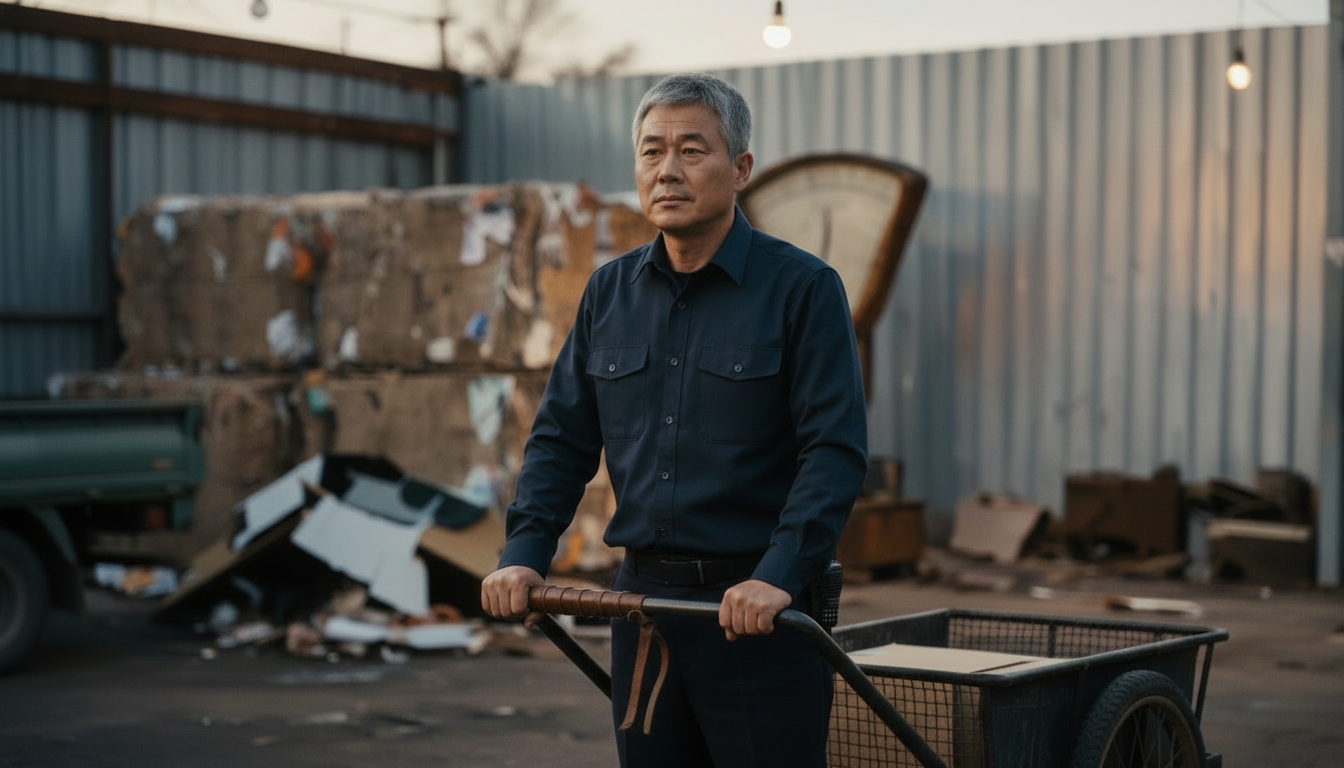
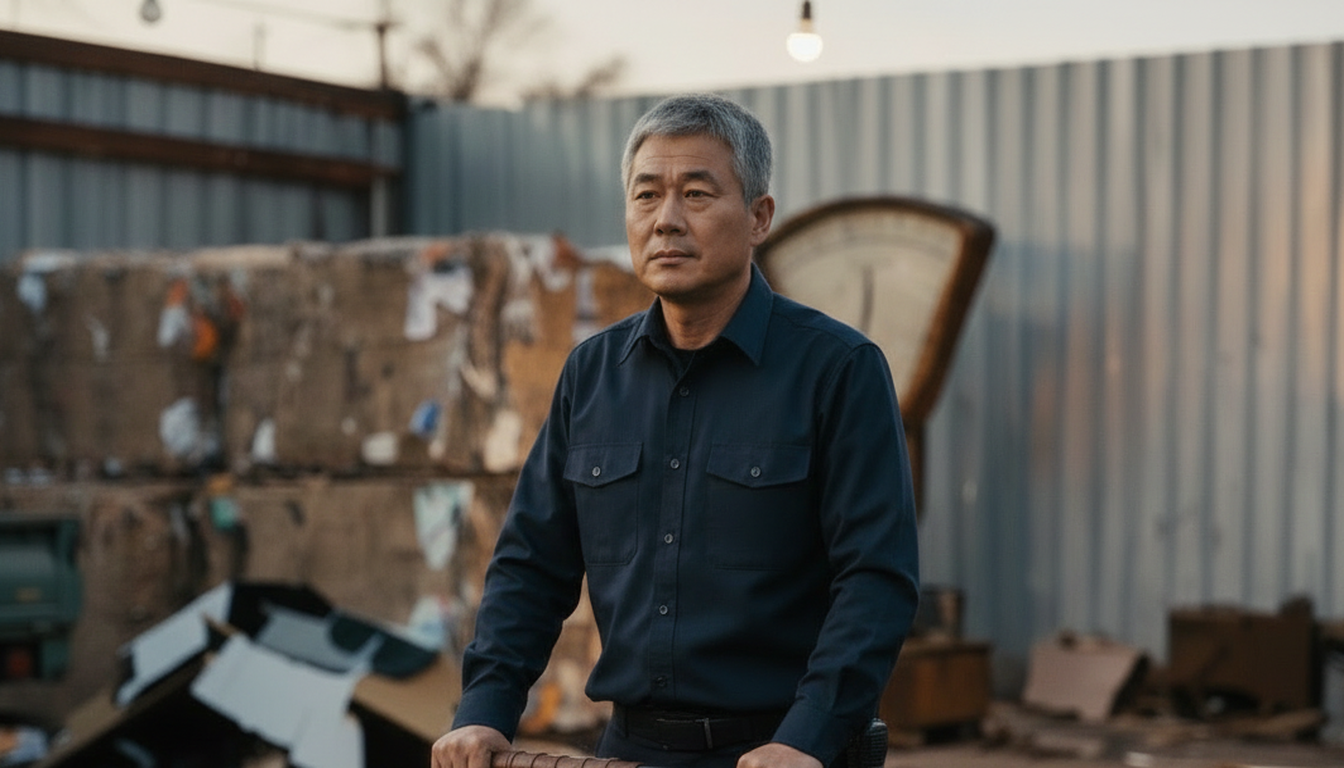
EP3 PHASE 5: 끌채 변형 대응 — S29 키프레임 타이트 크롭, 모션 검수 기록
Claude-Session: https://claude.ai/code/session_01AeoQmDXLUZEJdLTemjg1sM

diff --git a/docs/EP3-PHASE5-모션립싱크.md b/docs/EP3-PHASE5-모션립싱크.md
@@ -39,3 +39,10 @@
 - run 36942504155: 44클립 생성(40분, Image-to-Video). 검수 프레임 전 컷 키프레임 구도·인물 유지, 모션 왜곡 없음.
 - run 36946275069: 키프레임 수정분 6장면(S09·S26·S29·S37·S41·S42) 부분 재생성(이어하기, 38클립 재사용) → 끌채 손잡이·S41 손 반영 확인. 최종 클립 Artifact = run 36946275069.
 - 2단계 입력: 확정 TTS 42줄을 `assets/audio-overrides/kim-cart-grandma/`로 복사(생성 단계에서 재사용, TTS 재과금 없음).
+
+## 5-6. 끌채 변형(i2v 드리프트) 대응 (2026-10-02)
+- 실증: 키프레임은 끌채 한 개인데 Image-to-Video 변환 중 손잡이가 U자/두 줄로 변형(S29 1.5초, S37 3초 이후). 사람이 손잡이를 잡은 컷에서 반복.
+- 조치 1: 리어카 등장 17컷 모션 지시에 "소품 형태 고정(끌채 한 개, 휘거나 갈라지지 않음)" 추가(`build_ep3_phase5_scenes.py` CART_RIGID).
+- 조치 2: S29 키프레임을 상단 78% 타이트 크롭(손잡이는 손 아래 그립만 노출)으로 교체 후 재생성, S37은 고정 지시로 재생성.
+- 폴백: 그래도 변형되면 키프레임에 ffmpeg 슬로 푸시인(1.05)만 준 정지 클립으로 대체(규격 승인 모션 범위).
+- 모션 검수 결과(4프레임 스트립): S03·S08·S33·S42 변형 없음.
